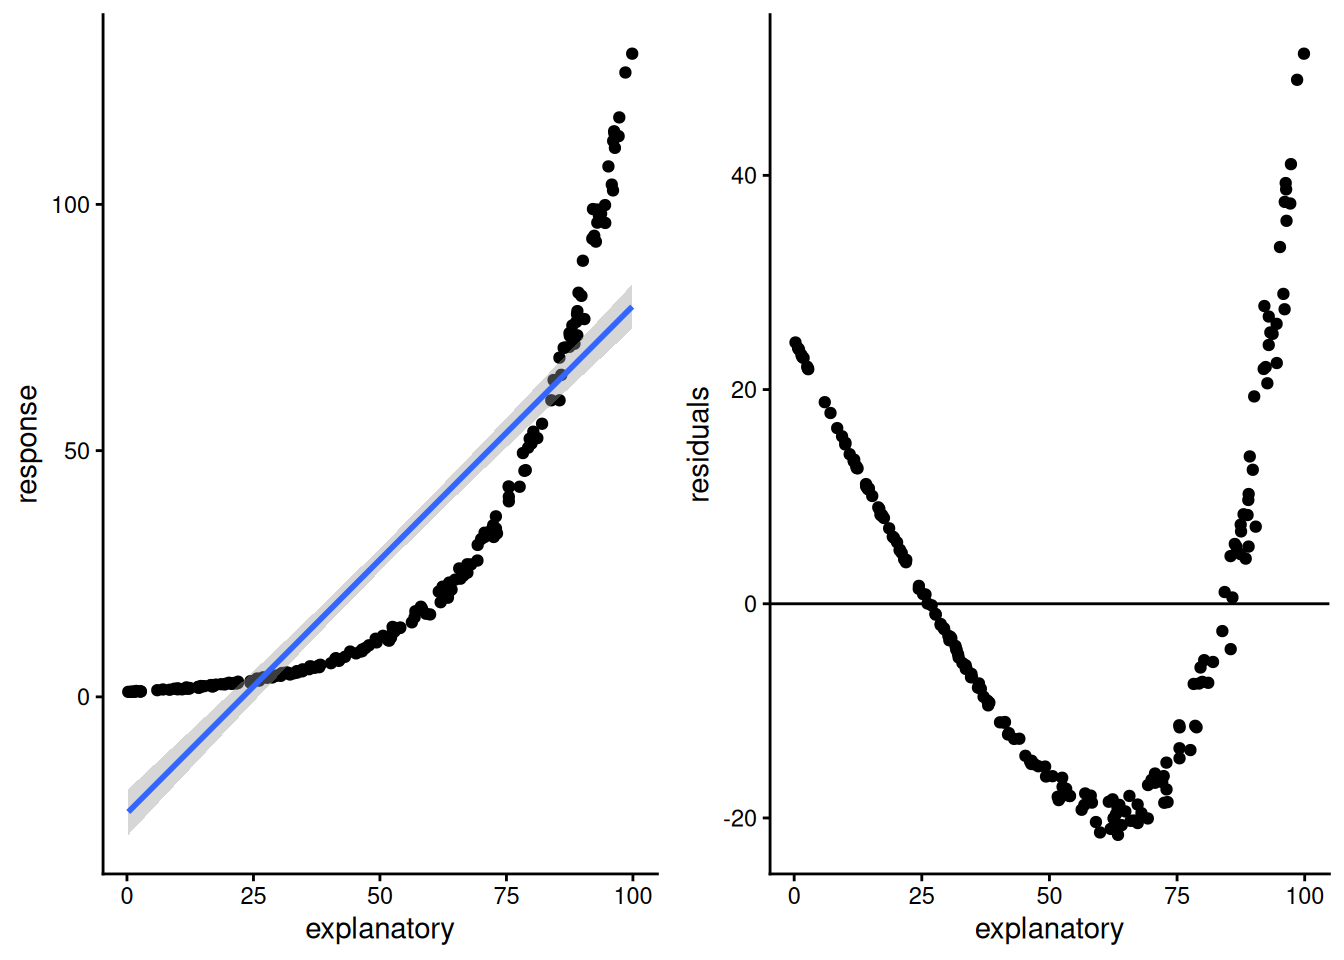
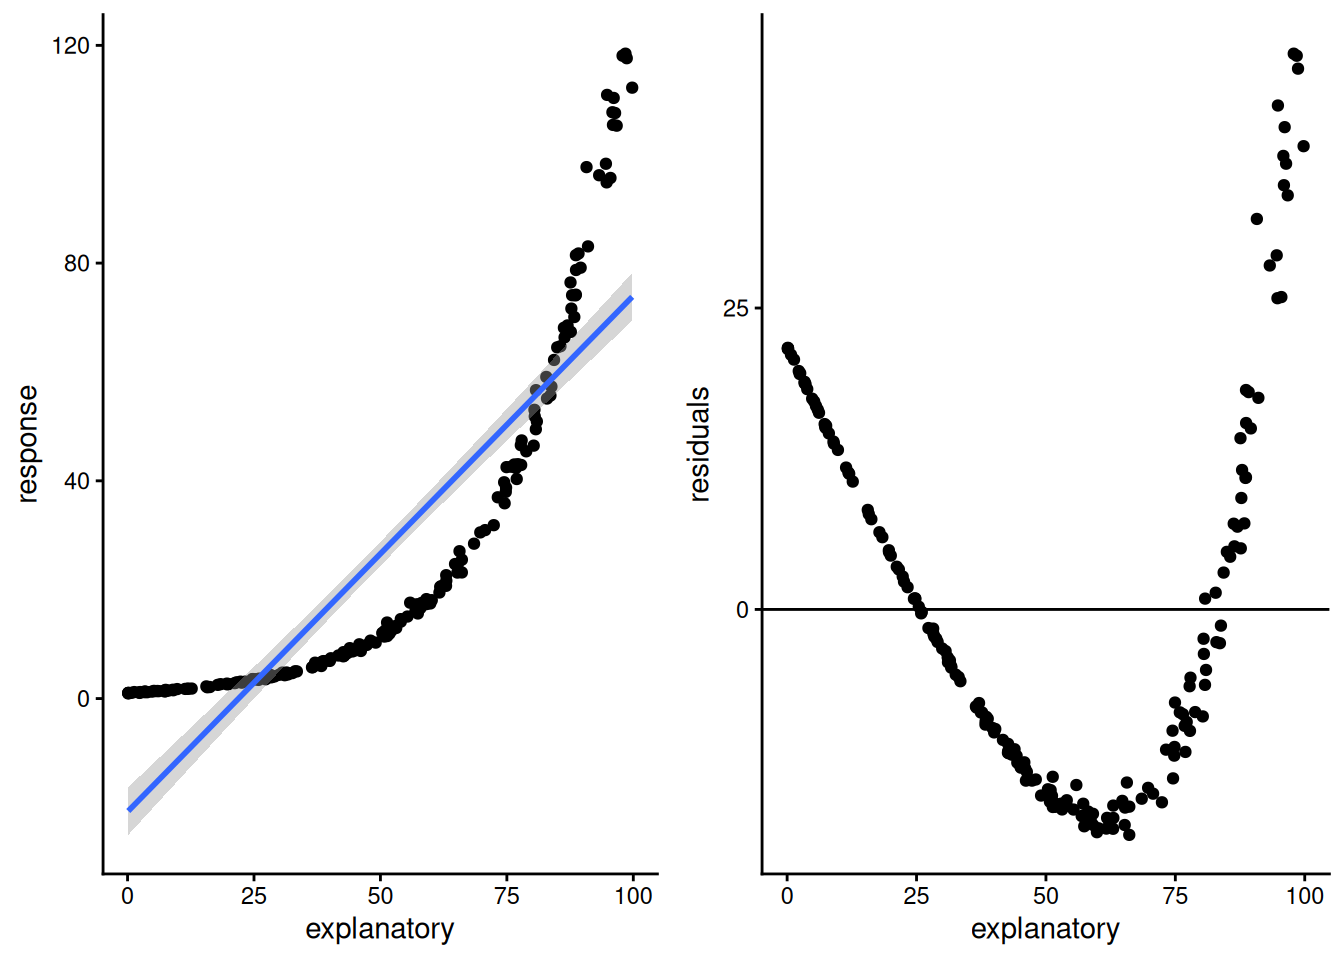
added warning

diff --git a/docs/lm-multiplepredictors.html b/docs/lm-multiplepredictors.html
@@ -584,6 +584,11 @@ Signif. codes:  0 '***' 0.001 '**' 0.01 '*' 0.05 '.' 0.1 ' ' 1</code></pre>
 </div>
 </div>
 <p>It does look like our residuals are normally distributed and the points are for the most part evenly spaced around 0 across the distribution of yhat. There are some clumps, which I think is the result of not including species and/or sex in the model, since we know that different species and different sexes have very different body masses.</p>
+<div class="fyi">
+<p><strong>Does multiple regression control for other variables?</strong></p>
+<p>When we talk about multiple regressions, we’ll sometimes say that we “controlled” for a specific variable by including it in a regression.</p>
+<p>However, remember that regression cannot directly inform causality and including something in a multiple regression is not the same thing as an experimental control.</p>
+</div>
 </section>
 <section id="interactions" class="level2" data-number="7.7">
 <h2 data-number="7.7" class="anchored" data-anchor-id="interactions"><span class="header-section-number">7.7</span> Interactions</h2>

diff --git a/docs/lab4-multiplefactormodels.html b/docs/lab4-multiplefactormodels.html
@@ -310,7 +310,7 @@ pre > code.sourceCode > span > a:first-child::before { text-decoration: underlin
 <div class="quarto-figure quarto-figure-center">
 <figure class="figure">
 <p><img src="figs/ril_collage3.png" class="img-fluid figure-img" alt="Multiple white and purple flowers of different shapes on a black background" width="400"></p>
-<figcaption>A diversity of Clarkia flowers from a population of recombinanet inbred lines</figcaption>
+<figcaption>A diversity of Clarkia flowers from a population of recombinant inbred lines</figcaption>
 </figure>
 </div>
 </div>
